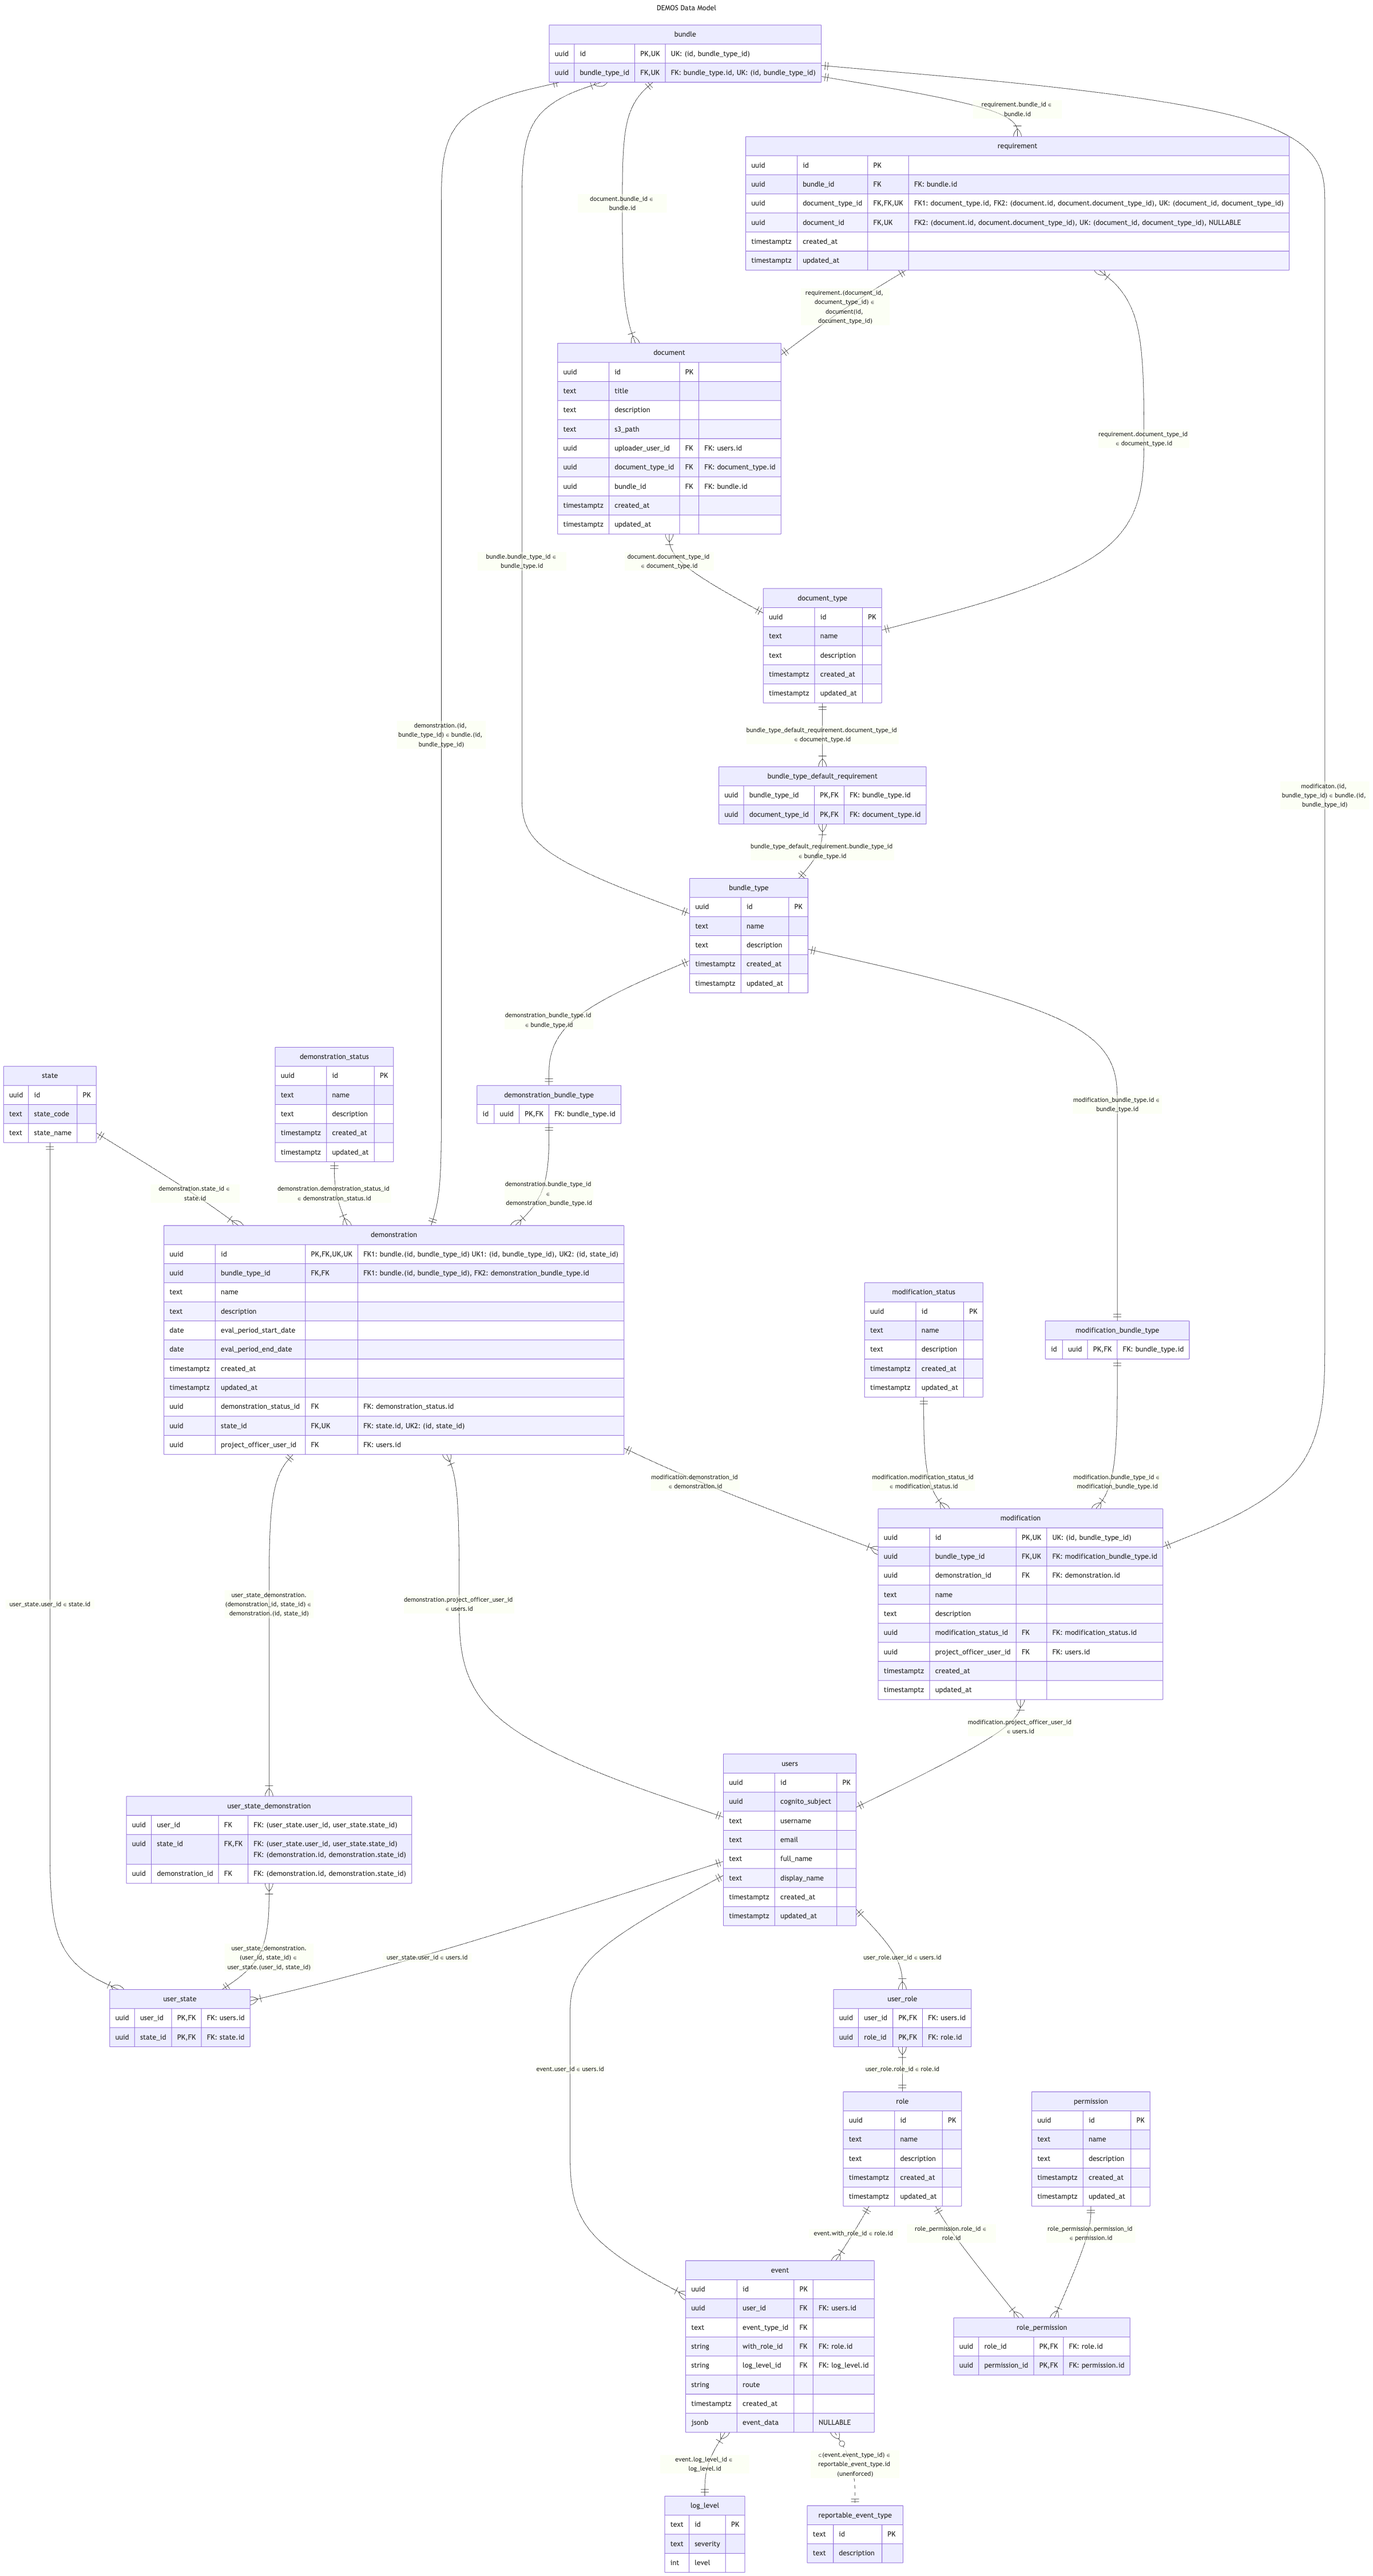
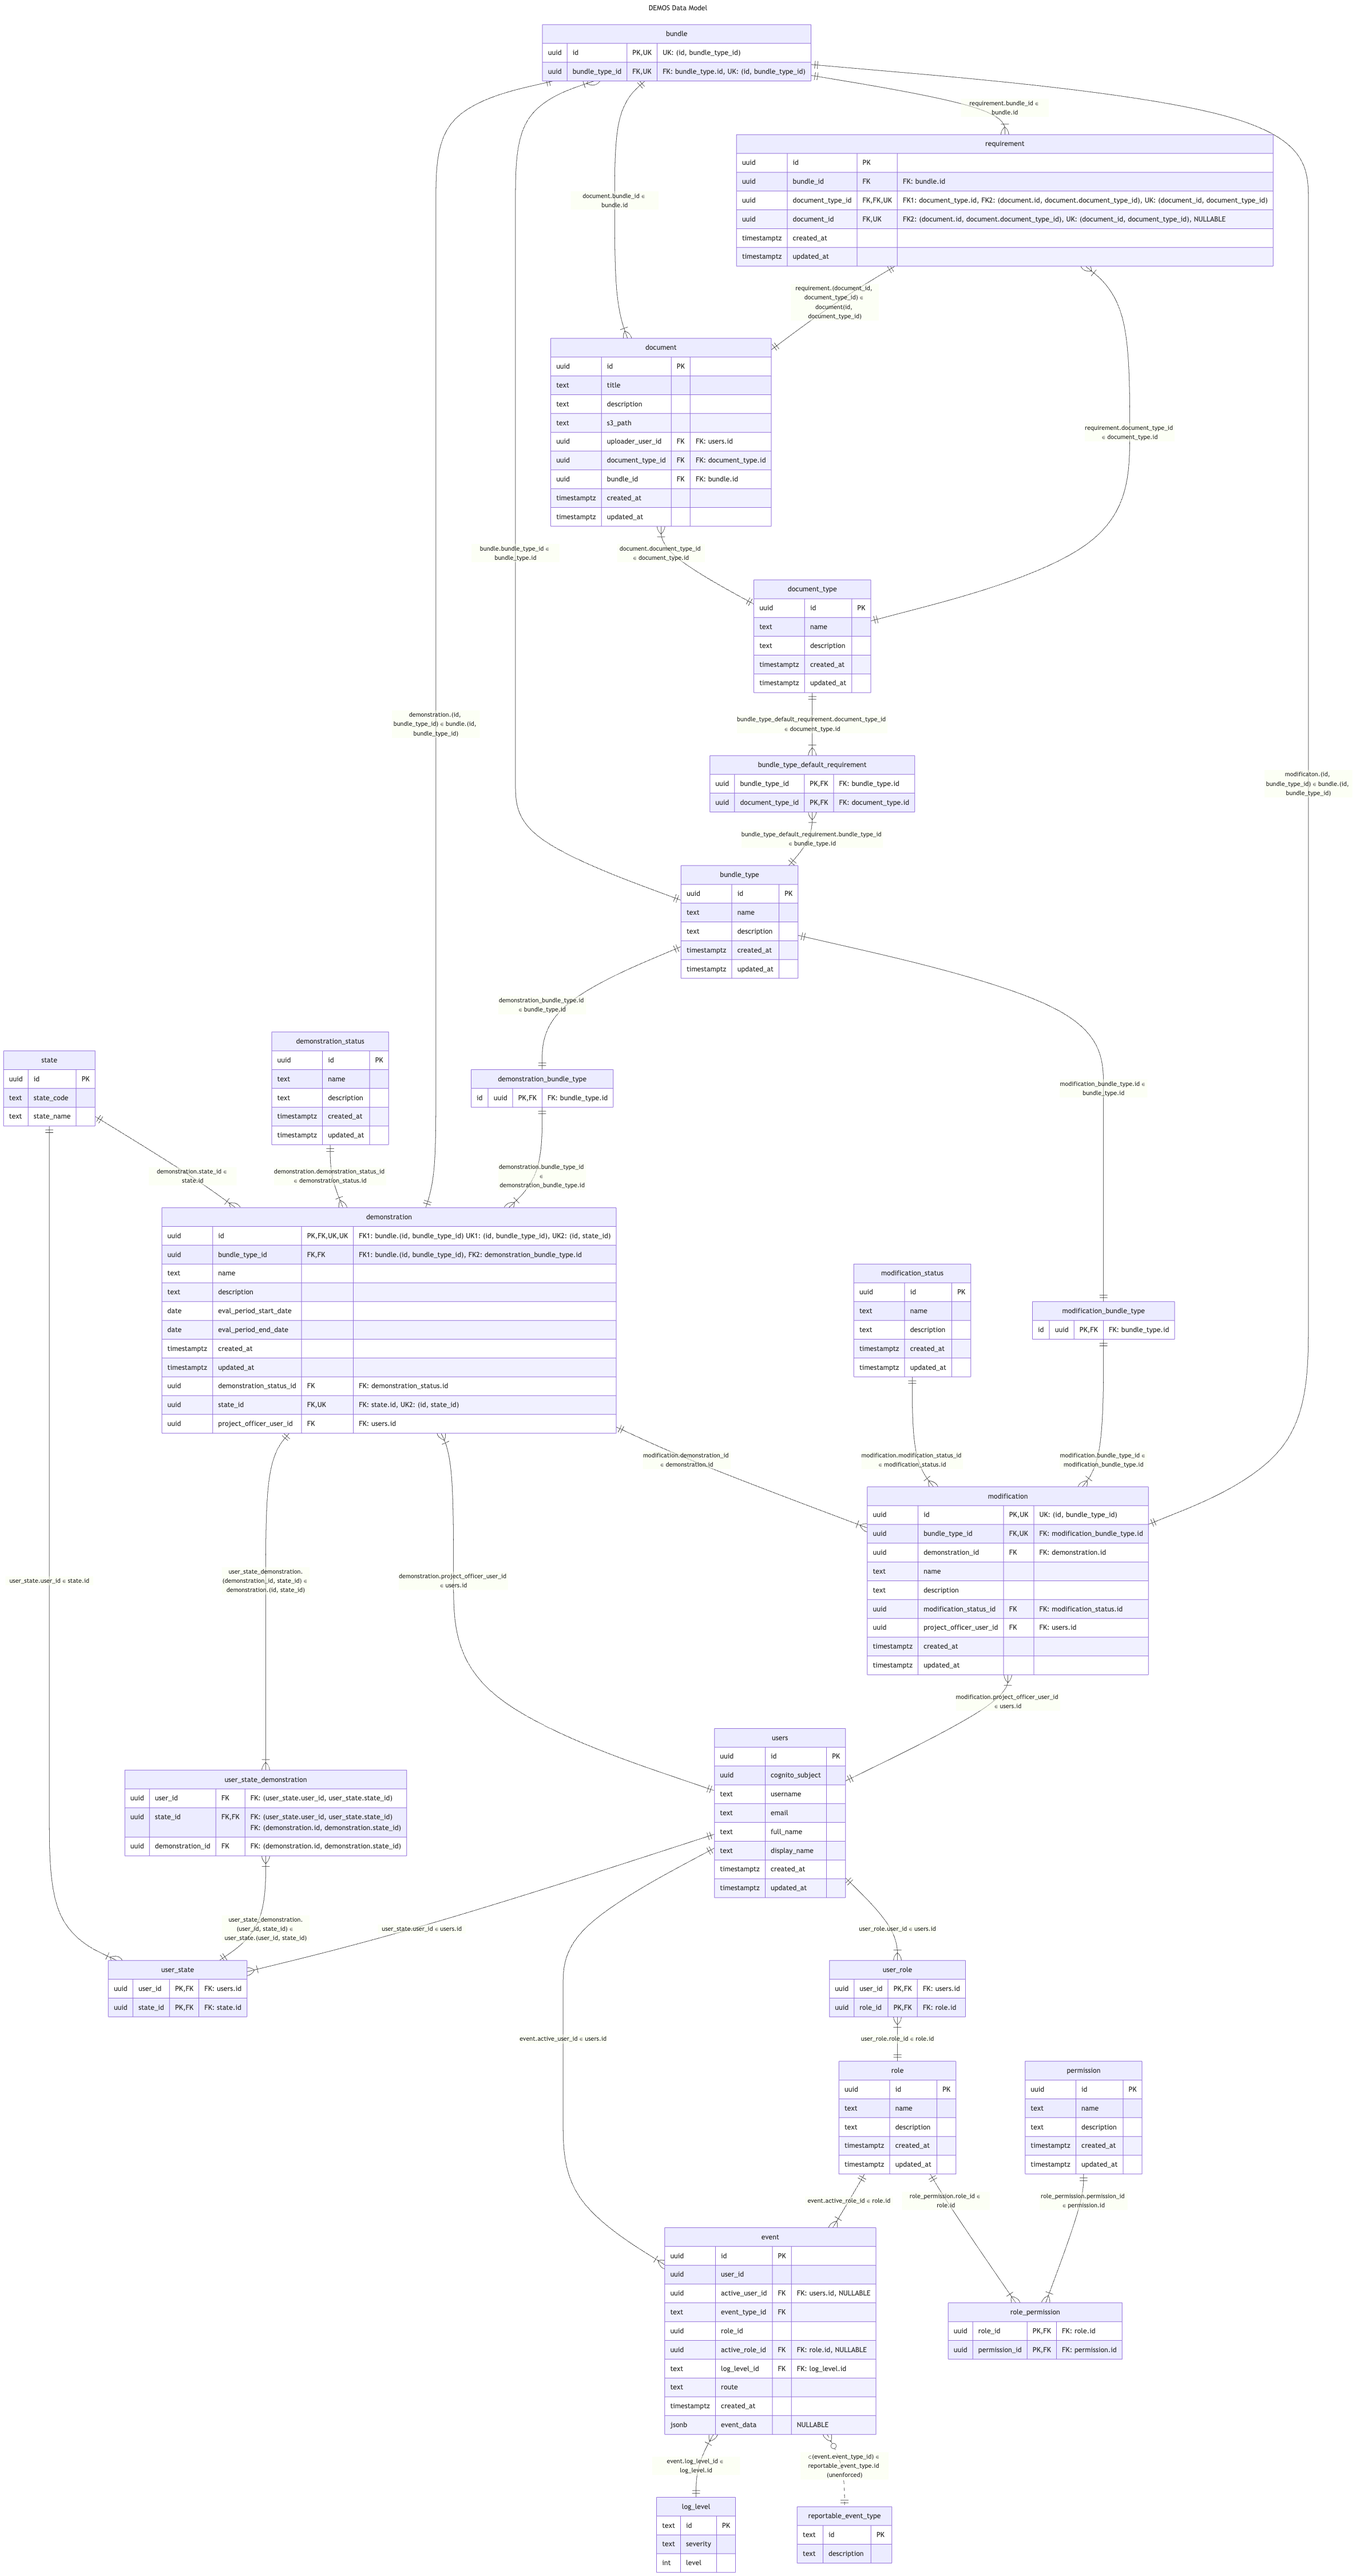
Update to the event table to handle the possiblity of deleted users or roles in an append-only way.

diff --git a/server/src/model/event/eventResolvers.ts b/server/src/model/event/eventResolvers.ts
@@ -24,13 +24,6 @@ export const eventResolvers = {
       });
     },
 
-    eventsByUser: async (_: undefined, { userId }: { userId: string }) => {
-      return await prisma().event.findMany({
-        where: { userId },
-        orderBy: { createdAt: 'desc' }
-      });
-    },
-
     eventsByRoute: async (_: undefined, { route }: { route: string }) => {
       return await prisma().event.findMany({
         where: { route },
@@ -44,19 +37,21 @@ export const eventResolvers = {
       const { eventTypeId, logLevelId, route, eventData } = input;
 
       const userId = await getCurrentUserId(context);
-      const withRoleId = await getCurrentUserRoleId(context);
+      const roleId = await getCurrentUserRoleId(context);
 
       return await prisma().event.create({
         data: {
+          userId: userId,
           user: {
             connect: {
-              id: userId
+              id: userId 
             }
           },
           eventTypeId: eventTypeId,
-          withRole: {
+          roleId: roleId,
+          role: {
             connect: {
-              id: withRoleId
+              id: roleId
             }
           },
           logLevel: {
@@ -78,9 +73,9 @@ export const eventResolvers = {
       });
     },
 
-    withRole: async (parent: Event) => {
+    role: async (parent: Event) => {
       return await prisma().role.findUnique({
-        where: { id: parent.withRoleId },
+        where: { id: parent.roleId },
       });
     },
   }

diff --git a/server/src/model/event/eventSchema.ts b/server/src/model/event/eventSchema.ts
@@ -8,9 +8,9 @@ export const eventSchema = gql`
   """
   type Event {
     id: ID!               # From B/E (generated by Prisma)
-    user: User!           # From B/E
+    user: User            # From B/E
     eventTypeId: String!  # From F/E
-    withRole: Role!       # From B/E
+    role: Role            # From B/E
     logLevelId: String!   # From F/E
     route: String!        # From F/E
     createdAt: DateTime!  # From B/E (generated by Prisma)
@@ -21,7 +21,6 @@ export const eventSchema = gql`
     events: [Event]!
     event(id: ID!): Event
     eventsByType(eventTypeId: String!): [Event]!
-    eventsByUser(userId: ID!): [Event]!
     eventsByRoute(route: String!): [Event]!
   }
   
@@ -44,9 +43,9 @@ export const eventSchema = gql`
 type DateTime = Date;
 export interface Event {
   id: string;
-  user: User;
+  user: User | null;
   eventTypeId: string;
-  withRole: Role;
+  role: Role | null;
   logLevelId: string;
   route: string;
   createdAt: DateTime;
